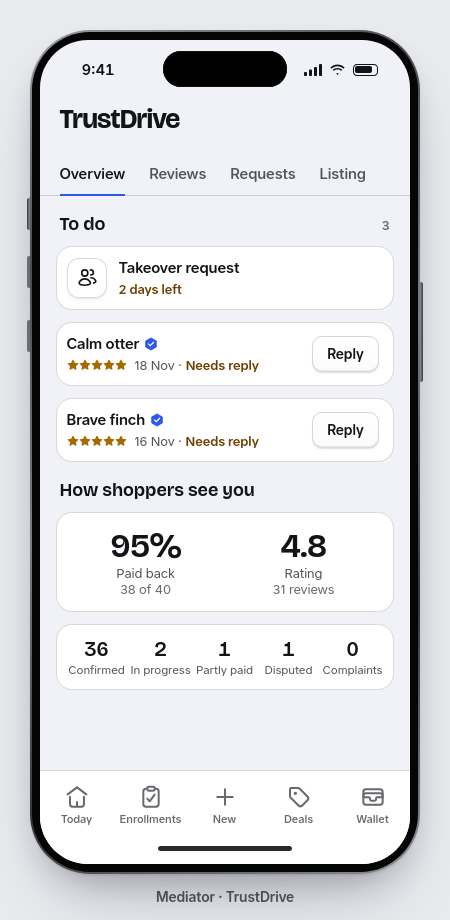
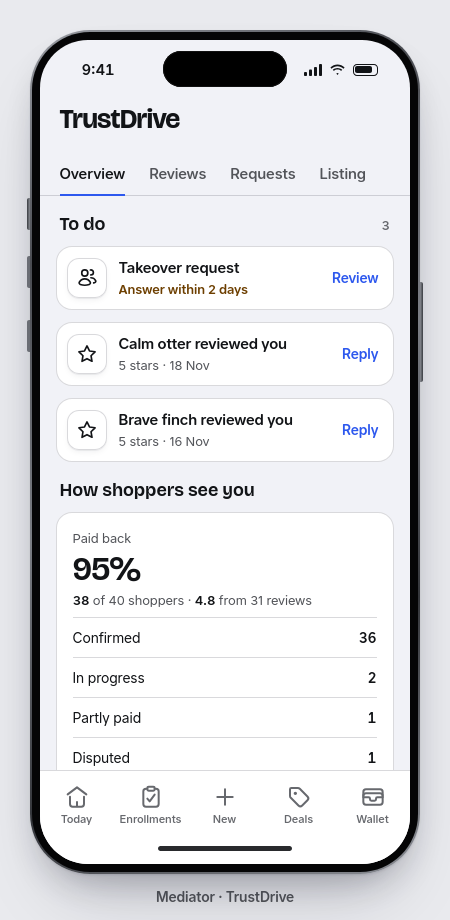
kit: mediator Today, dock, Wallet and TrustDrive in the calm language (one money card, one row style, no disc)

diff --git a/brand-identity/source/mob_m.py b/brand-identity/source/mob_m.py
@@ -129,17 +129,19 @@ def s_m_wallet():
 
 # ------------------------------------------------------------------ 7 TrustDrive
 def s_m_trust():
-    stat = lambda k, v, sub="": f'<div><b class="num">{v}</b><small>{k}</small></div>'
-    stars = ics("star", 14) * 5
-    rev = lambda name, date: (f'<div class="md-row md-rv"><div class="tx"><b>{name}{vhex(14)}</b><small><span class="st">{stars}</span>{date} · <em class="warn">Needs reply</em></small></div>'
-                              f'<button class="btn s sm">Reply</button></div>')
-    take = (f'<div class="md-row"><span class="x-tile md-tl">{ic("users", 20)}</span><div class="tx"><b>Takeover request</b><small><em class="warn">2 days left</em></small></div></div>')
+    """TrustDrive overview: what needs Kavya, then how shoppers see her. One row style, one big number."""
+    link = lambda t: f'<em class="md-lk">{t}</em>'
+    tile = lambda i: f'<span class="x-tile md-tl">{ic(i, 20)}</span>'
+    kv = lambda k, v, mute=False: f'<div class="md-kv{" mute" if mute else ""}"><span>{k}</span><b class="num">{v}</b></div>'
     return phone('<div class="md-pg"><div class="md-top"><h1>TrustDrive</h1></div>' + tabs(["Overview", "Reviews", "Requests", "Listing"], "Overview")
-                 + sh("To do", "3") + take + rev("Calm otter", "18 Nov") + rev("Brave finch", "16 Nov")
+                 + sh("To do", "3")
+                 + row(tile("users"), "Takeover request", "<em class='warn'>Answer within 2 days</em>", link("Review"))
+                 + row(tile("star"), "Calm otter reviewed you", "5 stars · 18 Nov", link("Reply"))
+                 + row(tile("star"), "Brave finch reviewed you", "5 stars · 16 Nov", link("Reply"))
                  + sh("How shoppers see you")
-                 + '<div class="md-stats"><div class="hero"><b class="num">95%</b><small>Paid back</small><span>38 of 40</span></div>'
-                   '<div class="hero"><b class="num">4.8</b><small>Rating</small><span>31 reviews</span></div></div>'
-                 + '<div class="md-stats2">' + stat("Confirmed", 36) + stat("In progress", 2) + stat("Partly paid", 1) + stat("Disputed", 1) + stat("Complaints", 0) + '</div>'
-                 + '</div>' + dock(""), label="Mediator · TrustDrive")
+                 + '<div class="hm-wal md-trust"><small>Paid back</small><b class="num">95%</b>'
+                   '<p><span class="num">38</span> of 40 shoppers · <span class="num">4.8</span> from 31 reviews</p>'
+                   + kv("Confirmed", 36) + kv("In progress", 2) + kv("Partly paid", 1) + kv("Disputed", 1) + kv("Complaints", 0, True)
+                 + '</div></div>' + dock(""), label="Mediator · TrustDrive")
 
 MED = [s_m_today, s_m_deals, s_m_store, s_m_enroll, s_m_enrollments, s_m_wallet, s_m_trust]

diff --git a/brand-identity/source/xmd.py b/brand-identity/source/xmd.py
@@ -116,4 +116,9 @@ XMD = """
 .phone .md-pg .hm-wal p { margin-bottom: 16px; }
 .phone .md-row .md-lk { font-style: normal; font-weight: 600; font-size: 14px; color: var(--hd-link); flex: none; }
 .phone .md-row small .warn { font-style: normal; color: var(--hd-warning-strong); font-weight: 600; }
+.phone .md-trust { padding-bottom: 4px; }
+.phone .md-trust p { margin-bottom: 8px !important; }
+.phone .md-kv { display: flex; justify-content: space-between; align-items: center; height: 40px; border-top: 1px solid var(--hd-edge); font-size: 14px; color: var(--hd-fg); }
+.phone .md-kv b { font-weight: 600; }
+.phone .md-kv.mute { color: var(--hd-fg-subtle); }
 """
